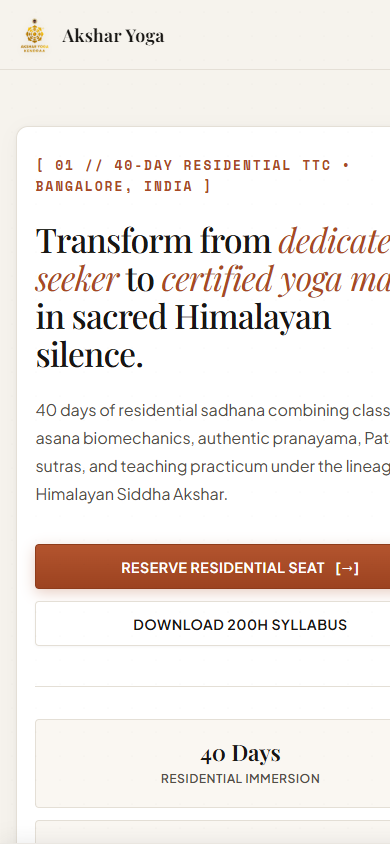
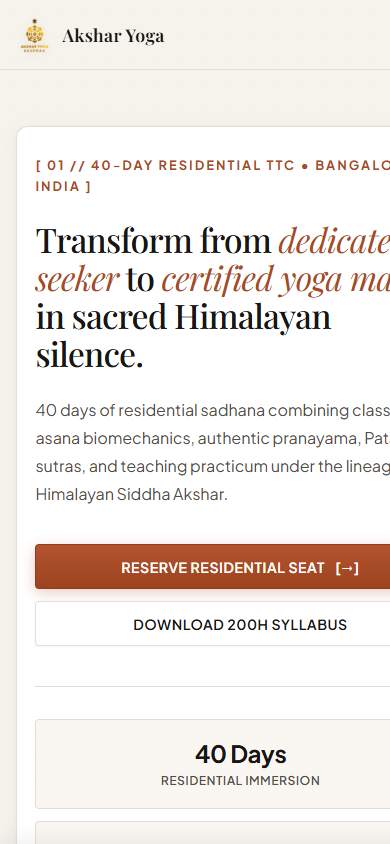
feat(typography): upgrade numbers font from monospace to Plus Jakarta Sans tabular numerals

Changed region(s): [[0.0923, 0.8626, 1.0, 0.9858], [0.0923, 0.1848, 0.7385, 0.2464], [0.7692, 0.1848, 1.0, 0.2156]]

diff --git a/styles.css b/styles.css
@@ -40,7 +40,8 @@
   /* Typography */
   --font-serif: 'Playfair Display', Georgia, 'Times New Roman', serif;
   --font-sans: 'Plus Jakarta Sans', system-ui, -apple-system, sans-serif;
-  --font-mono: 'Space Mono', 'SFMono-Regular', Consolas, monospace;
+  --font-mono: 'Plus Jakarta Sans', system-ui, -apple-system, sans-serif;
+  --font-numbers: 'Plus Jakarta Sans', system-ui, -apple-system, sans-serif;
 
   /* Architectural Radii */
   --radius-xs: 2px;
@@ -424,9 +425,10 @@ input, select, textarea {
   display: inline-flex;
   align-items: center;
   gap: 0.5rem;
-  font-family: var(--font-mono);
-  font-size: 0.82rem;
+  font-family: var(--font-numbers);
+  font-size: 0.85rem;
   font-weight: 600;
+  letter-spacing: 0.01em;
   color: var(--text-secondary);
   padding: 0.5rem 0.85rem;
   border-radius: var(--radius-sm);
@@ -654,12 +656,13 @@ input, select, textarea {
 }
 
 .hero-stat-value {
-  font-family: var(--font-serif);
-  font-size: clamp(1.4rem, 2.2vw, 1.85rem);
-  font-weight: 600;
+  font-family: var(--font-numbers);
+  font-size: clamp(1.5rem, 2.3vw, 1.95rem);
+  font-weight: 700;
   color: var(--text-primary);
   line-height: 1.1;
   margin-bottom: 0.35rem;
+  letter-spacing: -0.02em;
 }
 
 .hero-stat-label {
@@ -1076,11 +1079,11 @@ input, select, textarea {
 }
 
 .timeline-time {
-  font-family: var(--font-mono);
-  font-size: 0.78rem;
+  font-family: var(--font-numbers);
+  font-size: 0.82rem;
   font-weight: 700;
   color: var(--text-primary);
-  letter-spacing: 0.04em;
+  letter-spacing: -0.01em;
   text-align: right;
   padding-top: 1px;
 }
@@ -1335,26 +1338,30 @@ input, select, textarea {
 }
 
 .tier-price {
-  font-family: var(--font-mono);
-  font-size: clamp(1.85rem, 2.5vw, 2.35rem);
+  font-family: var(--font-numbers);
+  font-size: clamp(2.1rem, 2.8vw, 2.75rem);
   font-weight: 700;
   color: var(--text-primary);
   line-height: 1;
+  letter-spacing: -0.03em;
+  font-feature-settings: "lnum" 1, "tnum" 1;
 }
 
 .tier-currency-note {
-  font-family: var(--font-mono);
+  font-family: var(--font-sans);
   font-size: 0.85rem;
   color: var(--text-muted);
   font-weight: 600;
+  letter-spacing: 0.04em;
 }
 
 .tier-usd-approx {
-  font-family: var(--font-mono);
-  font-size: 0.78rem;
+  font-family: var(--font-numbers);
+  font-size: 0.82rem;
   color: var(--accent-terracotta);
-  margin-top: 0.25rem;
+  margin-top: 0.35rem;
   font-weight: 600;
+  letter-spacing: -0.01em;
 }
 
 .tier-desc {
@@ -1469,10 +1476,11 @@ input, select, textarea {
 }
 
 .faq-num {
-  font-family: var(--font-mono);
-  font-size: 0.85rem;
+  font-family: var(--font-numbers);
+  font-size: 0.88rem;
   font-weight: 700;
   color: var(--accent-terracotta);
+  letter-spacing: -0.02em;
 }
 
 .faq-question-text {
@@ -1711,11 +1719,12 @@ input, select, textarea {
 }
 
 .mobile-bar-rate {
-  font-family: var(--font-mono);
-  font-size: 1.05rem;
+  font-family: var(--font-numbers);
+  font-size: 1.1rem;
   font-weight: 700;
   color: var(--text-primary);
   line-height: 1.1;
+  letter-spacing: -0.02em;
 }
 
 .mobile-bar-buttons {
@@ -1940,10 +1949,11 @@ input, select, textarea {
 }
 
 .option-card-price {
-  font-family: var(--font-mono);
-  font-size: 0.9rem;
+  font-family: var(--font-numbers);
+  font-size: 0.95rem;
   font-weight: 700;
   color: var(--accent-terracotta);
+  letter-spacing: -0.01em;
 }
 
 .form-nav-actions {

diff --git a/index.html b/index.html
@@ -48,7 +48,7 @@
   <link href="https://fonts.googleapis.com/css2?family=Playfair+Display:ital,wght@0,500;0,600;1,400;1,500;1,600&family=Plus+Jakarta+Sans:wght@400;500;600;700&family=Space+Mono:ital,wght@0,400;0,700;1,400&display=swap" rel="stylesheet">
 
   <!-- Stylesheet -->
-  <link rel="stylesheet" href="styles.css?v=6.1">
+  <link rel="stylesheet" href="styles.css?v=7.0">
 
   <!-- Structured Data: EducationalOrganization, Course, and FAQPage Schema -->
   <script type="application/ld+json">

diff --git a/lp3.html b/lp3.html
@@ -48,7 +48,7 @@
   <link href="https://fonts.googleapis.com/css2?family=Playfair+Display:ital,wght@0,500;0,600;1,400;1,500;1,600&family=Plus+Jakarta+Sans:wght@400;500;600;700&family=Space+Mono:ital,wght@0,400;0,700;1,400&display=swap" rel="stylesheet">
 
   <!-- Stylesheet -->
-  <link rel="stylesheet" href="styles.css?v=6.1">
+  <link rel="stylesheet" href="styles.css?v=7.0">
 
   <!-- Structured Data: EducationalOrganization, Course, and FAQPage Schema -->
   <script type="application/ld+json">
